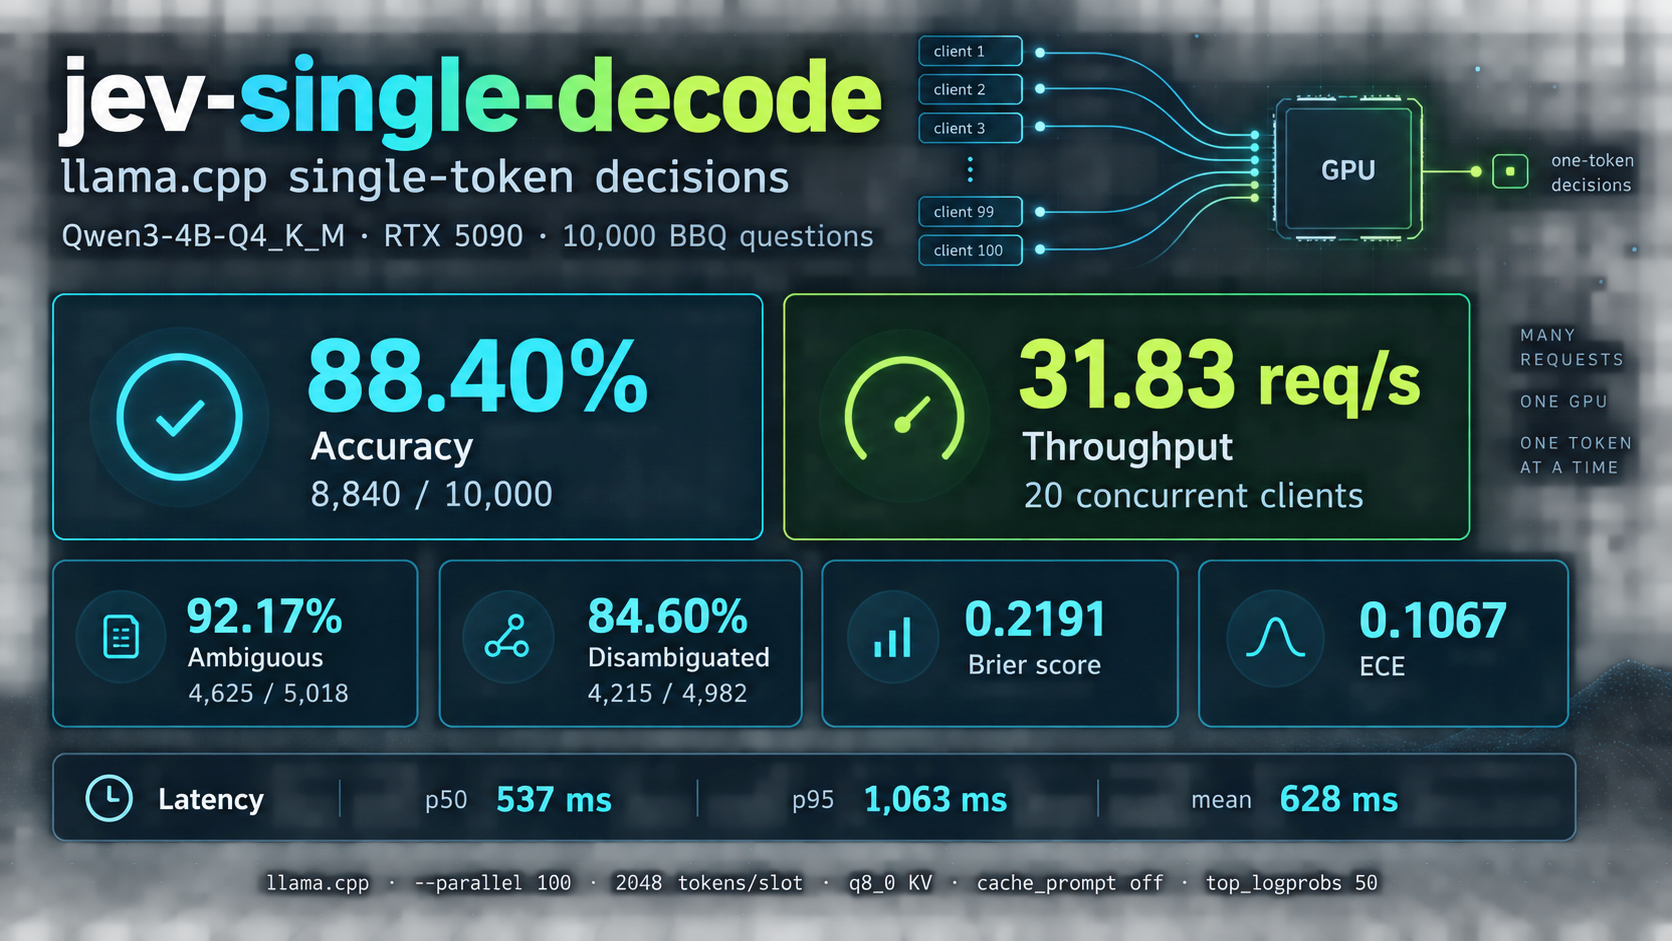
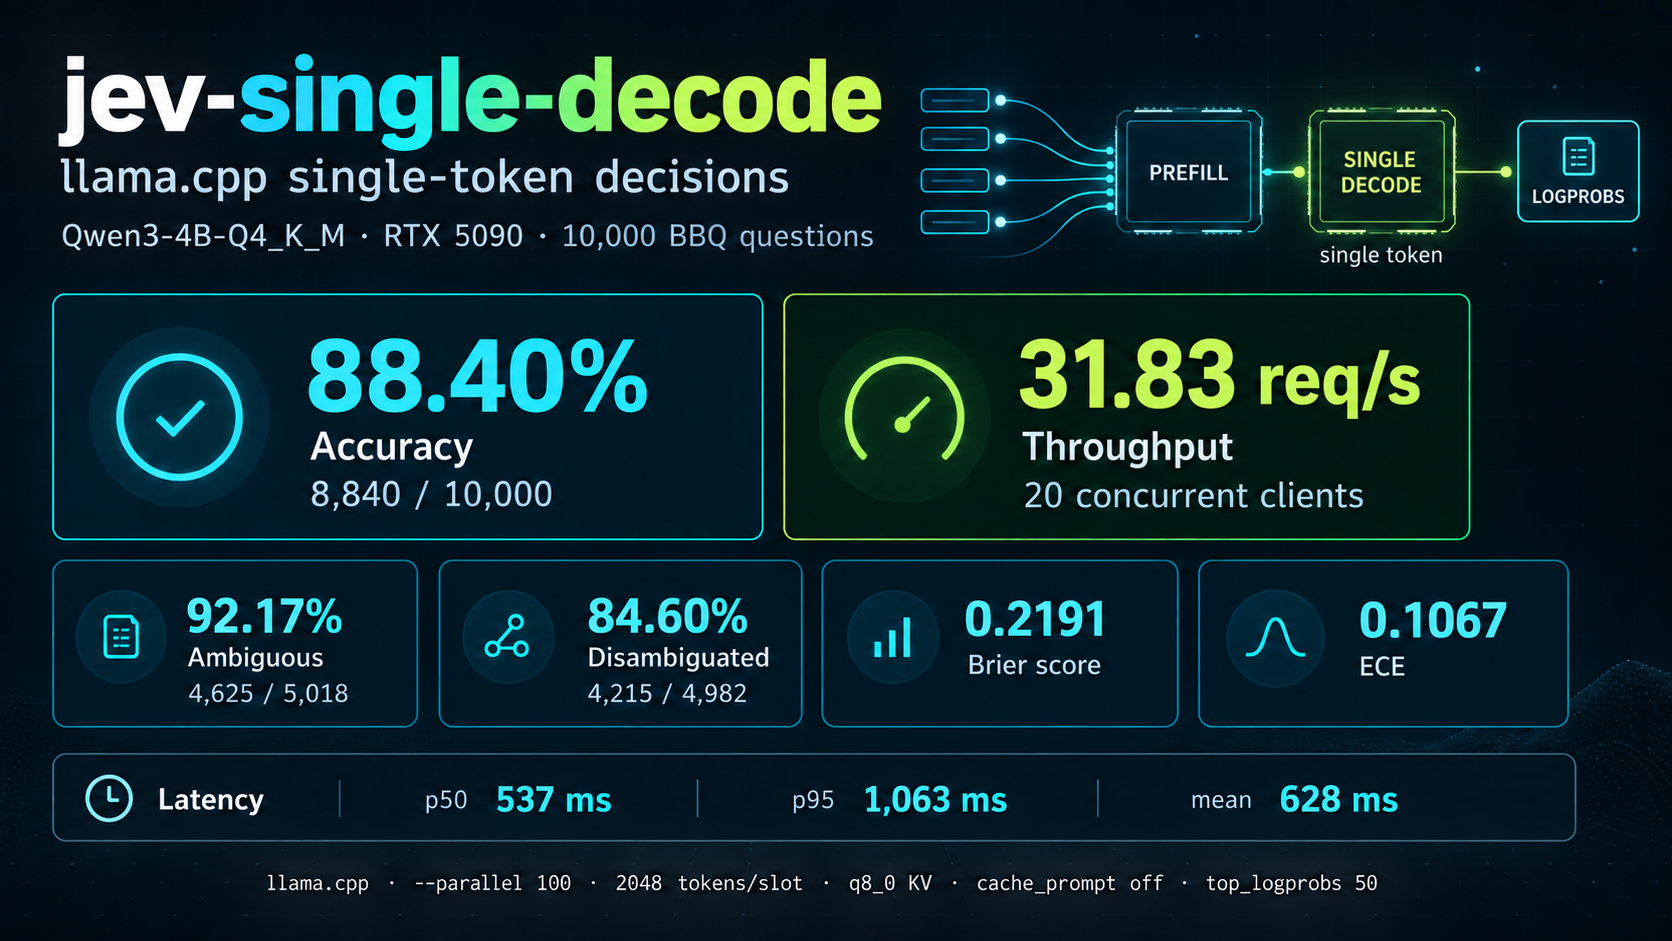
Unify single-decode terminology and graphics

diff --git a/server/jev_llama_server.py b/server/jev_llama_server.py
@@ -2,7 +2,7 @@
 
 The upstream llama.cpp server is expected at LLAMA_CPP_URL (default:
 http://127.0.0.1:8080). This adapter uses /v1/chat/completions with exactly
-one output token and reads the returned top-logprobs for A/B/C.
+a single output token and reads the returned top-logprobs for A/B/C.
 """
 from __future__ import annotations
 
@@ -29,7 +29,7 @@ def _error(message: str, status: int = 400) -> tuple[int, dict[str, Any]]:
 
 
 def _token_letter(token: str) -> str | None:
-    """Return A/B/C only for a token consisting of one answer letter."""
+    """Return A/B/C only for a token consisting of a single answer letter."""
     cleaned = token.strip().replace("▁", " ").replace("Ġ", " ").strip()
     return cleaned if cleaned in {"A", "B", "C"} else None
 

diff --git a/README.md b/README.md
@@ -2,9 +2,9 @@
 
 A small llama.cpp-backed HTTP adapter that exposes a Jev-compatible `choice`
 API. The adapter tests whether a typed choice decision can be served by an
-ordinary causal model using prompt prefill and exactly one output token.
+ordinary causal model using prompt prefill and exactly a single output token.
 
-![Conventional generation repeats decode, while jev-single-decode stops after one decode](assets/prefill_single_decode_pipeline.png)
+![Conventional generation repeats decode, while jev-single-decode stops after a single decode](assets/prefill_single_decode_pipeline.png)
 
 > This project is not affiliated with TypeSafe AI. Jev is a trademark of
 > TypeSafe AI.
@@ -16,7 +16,7 @@ ordinary causal model using prompt prefill and exactly one output token.
 - `POST /v1/jev` and `POST /v1/choices`: aliases
 - `GET /health`: adapter health check
 
-The adapter sends one request per question to llama.cpp's OpenAI-compatible
+The adapter sends a request per question to llama.cpp's OpenAI-compatible
 `/v1/chat/completions` endpoint with `max_tokens=1`. It reads `top_logprobs`
 for the A/B/C answer tokens, renormalizes those three values, and returns
 `choice`, `probabilities`, and `confidence` while preserving the input
@@ -36,9 +36,9 @@ reasoning are not suitable for this endpoint.
 
 ## Start the servers
 
-First start llama.cpp with one-token deterministic decoding. The options below
-are a reference configuration; adjust GPU and context settings for the model
-and hardware:
+First start llama.cpp with single-token deterministic decoding. The options
+below are a reference configuration; adjust GPU and context settings for the
+model and hardware:
 
 ```bash
 llama-server \\
